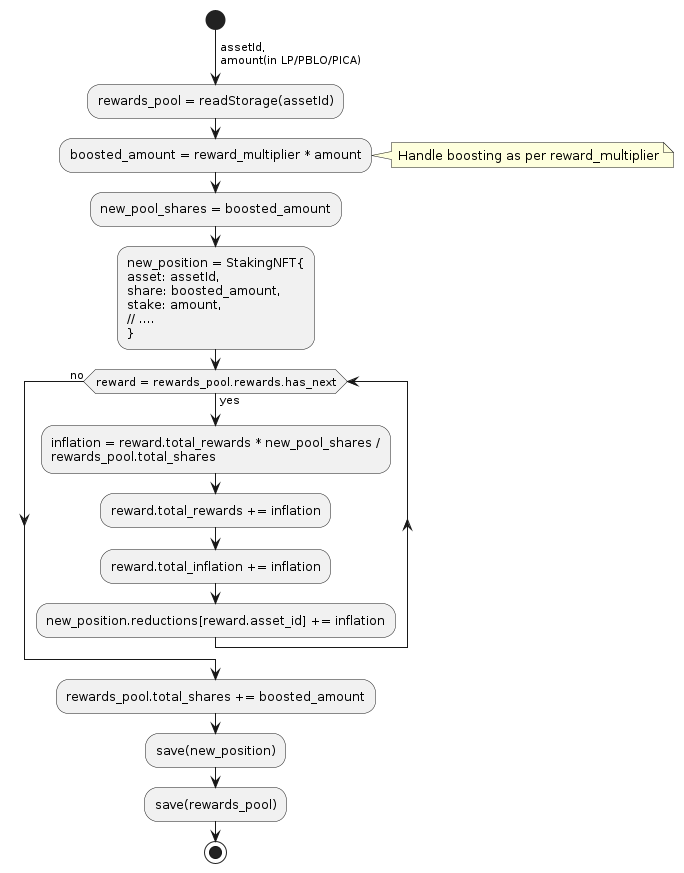
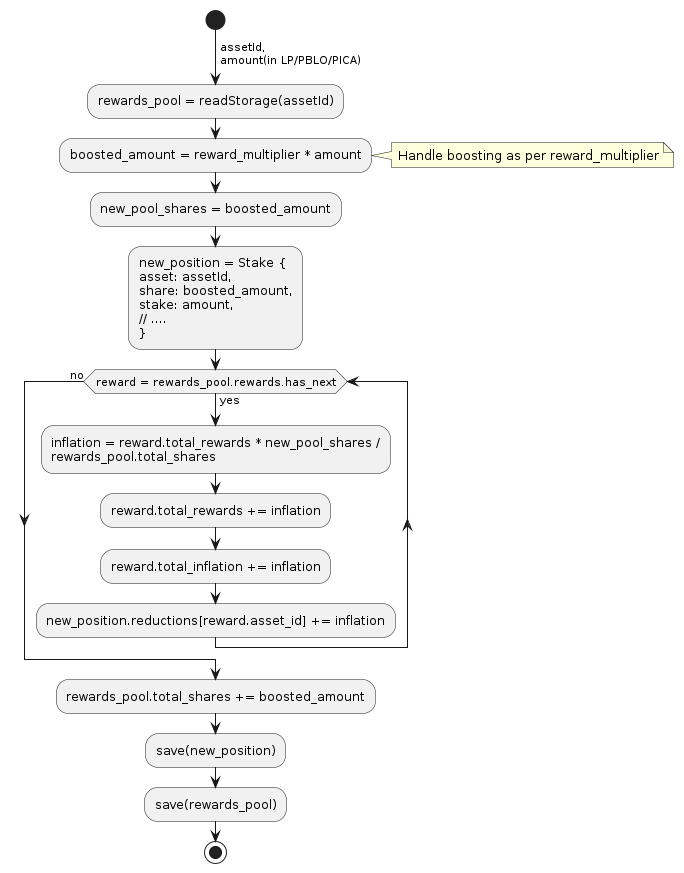
Update to md & algos

Changed region(s): [[0.1842, 0.2784, 0.4605, 0.4021], [0.4298, 0.3711, 0.4605, 0.4021]]

diff --git a/rfcs/0005-pablo-distribution.md b/rfcs/0005-pablo-distribution.md
@@ -61,7 +61,7 @@ Table of Contents
         Changes](#_pallet_staking_rewards_picapblo_staking_related_changes)
 -   [Appendix A: Trading Fee Inflation to Avoid Dilution of
     LPs](#_trading_fee_inflation_to_avoid_dilution_of_lps)
--   [7. Fee Distribution Q&A](#_fee_distribution_qa)
+-   [Appendix B: Fee Distribution Q&A](#_fee_distribution_qa)
 
 ## 1. Abstract
 
@@ -455,103 +455,72 @@ to this as the "reward pooling(**RP**) based approach".
 
 #### 5.3.2. Data Structures
 
-Staking rewards pallet already uses the following fNFT data structure,
+Staking rewards pallet already uses the following data structure
+representing a staking position,
 
-    /// staking typed fNFT, usually can be mapped to raw fNFT storage type
-    #[derive(Debug, PartialEq, Eq, Copy, Clone, Encode, Decode, TypeInfo)]
-    pub struct StakingNFT<AccountId, AssetId, Balance, Epoch, Rewards> {
-        /// The staked asset.
-        pub asset: AssetId,
-        /// The original stake this NFT was minted for.
-        pub stake: Balance,
-        /// The reward epoch at which this NFT will start yielding rewards.
-        pub reward_epoch_start: Epoch,
-        /// List of reward asset/pending rewards.
-        pub pending_rewards: Rewards,
-        /// The date at which this NFT was minted.
-        pub lock_date: Timestamp,
-        /// The duration for which this NFT stake was locked.
-        pub lock_duration: DurationSeconds,
-        /// The penalty applied if a staker unstake before the end date.
-        pub early_unstake_penalty: Penalty<AccountId>,
-        /// The reward multiplier.
-        pub reward_multiplier: Perbill,
-    }
-
-This data structure can be modified to support the RP approach by
-adding/adjusting/removing some fields.
-
-    /// This can possibly be renamed as `RewardPoolPosition`
-    pub struct StakingNFT<RewardPoolId, AccountId, AssetId, Balance> {
-        /// [Adding] Reward Pool ID from which pool to allocate rewards for this
+    #[derive(Debug, PartialEq, Eq, Clone, Encode, Decode, TypeInfo)]
+    pub struct Stake<RewardPoolId, Balance, Rewards> {
+        /// Reward Pool ID from which pool to allocate rewards for this
         pub reward_pool_id: RewardPoolId,
 
-        /// The staked asset.
-        pub asset: AssetId,
-        /// The original stake this NFT was minted for.
-        /// Used for calculating the pool share.
+        /// The original stake this NFT was minted for or updated NFT with increased stake amount.
         pub stake: Balance,
 
-        /// [Adding] Pool share received for this NFT
+        /// Pool share received for this position
         pub share: Balance,
 
-        /// [Adding] reduced rewards by asset for the fNFT (d_n)
-        pub reductions: BtreeMap<AssetId, Balance>,
+        /// Reduced rewards by asset for the position (d_n)
+        reductions: Rewards,
 
-        /// [Removing] The reward epoch at which this NFT will start yielding rewards. This is no longer needed.
-        /// pub reward_epoch_start: Epoch,
-
-        /// [Removing] List of reward asset/pending rewards. This is no longer needed as pending rewards are pooled
-        /// pub pending_rewards: Rewards,
-
-        /// The date at which this NFT was minted.
-        pub lock_date: Timestamp,
-
-        /// The duration for which this NFT stake was locked.
-        pub lock_duration: DurationSeconds,
-
-        /// The penalty applied if a staker unstake before the end date.
-        pub early_unstake_penalty: Penalty<AccountId>,
-
-        /// [Removing] The reward multiplier. Can remove this and calculate the extra shares a user gets based on the multiplier
-        /// pub reward_multiplier: Perbill,
+        /// The lock period for the stake.
+        pub lock: Lock,
     }
 
+Which is referred to in the algorithms in the followin sections.
+
 Now in order to allow redeeming the above fNFT, following data
-structures needs to be tracked in the staking rewards pallet,
+structures is to be tracked in the staking rewards pallet,
 
-    /// Total reward for a particular asset
-    pub struct Reward<AssetId, Balance, BlockNumber> {
-
+    #[derive(RuntimeDebug, PartialEq, Eq, Clone, Encode, Decode, TypeInfo)]
+    pub struct Reward<AssetId, Balance> {
+        /// asset id of the reward
         pub asset_id: AssetId,
 
-        /// Total rewards including inflation for adjusting for new stakers joining the pool. All stakers
-        /// in a pool are eligible to receive a part of this value based on their share of the pool.
+        /// Total rewards including inflation for adjusting for new stakers joining the pool. All
+        /// stakers in a pool are eligible to receive a part of this value based on their share of the
+        /// pool.
         pub total_rewards: Balance,
 
-        /// A book keeping field to track the actual total reward without the reward inflation caused
-        /// by new stakers joining the pool.
-        pub total_inflation: Balance,
+        /// A book keeping field to track the actual total reward without the
+        /// reward dilution adjustment caused by new stakers joining the pool.
+        pub total_dilution_adjustment: Balance,
 
-        /// Upper bound on the `actual_total_rewards`.
+        /// Upper bound on the `total_rewards - total_dilution_adjustment`.
         pub max_rewards: Balance,
 
-        /// The rewarding rate that increases the pool `total_reward` (and `actual_total_reward`)
+        /// The rewarding rate that increases the pool `total_reward`
         /// at a given time.
         pub reward_rate: Perbill,
     }
 
-    /// Track the total reward pool for a particular staker incentive scheme. eg: A Pablo Dex LP incentive
-    pub struct RewardsPool<AccountId, AssetId, Balance, BlockNumber> {
+    #[derive(RuntimeDebug, PartialEq, Eq, Clone, Encode, Decode, TypeInfo)]
+    pub struct RewardPool<AccountId, AssetId, Balance, BlockNumber, DurationPresets, Rewards> {
+        pub owner: AccountId,
 
-        /// Reward pool indexed by the accountId that holds the rewarded assets
-        pub reward_pool_id: AccountId,
+        /// The staked asset id of the reward pool.
+        pub asset_id: AssetId,
 
         /// rewards accumulated
-        pub rewards: BtreeSet<Reward<AssetId, Balance, BlockNumber>>,
+        pub rewards: Rewards,
 
         /// Total shares distributed among stakers
         pub total_shares: Balance,
+
+        /// Pool would stop adding rewards to pool at this block number.
+        pub end_block: BlockNumber,
+
+        // possible lock config for this pool
+        pub lock: LockConfig<DurationPresets>,
     }
 
 Following sections describe the algorithms for various operations on the
@@ -664,4 +633,4 @@ fNFT at the time of LP event might make sense. i.e fNFT represents the
 LP position on the pool as well as the rewards position for PBLO tokens
 for LPs.
 
-Last updated 2022-06-02 17:19:00 +0200
+Last updated 2022-06-29 11:48:18 +0200
